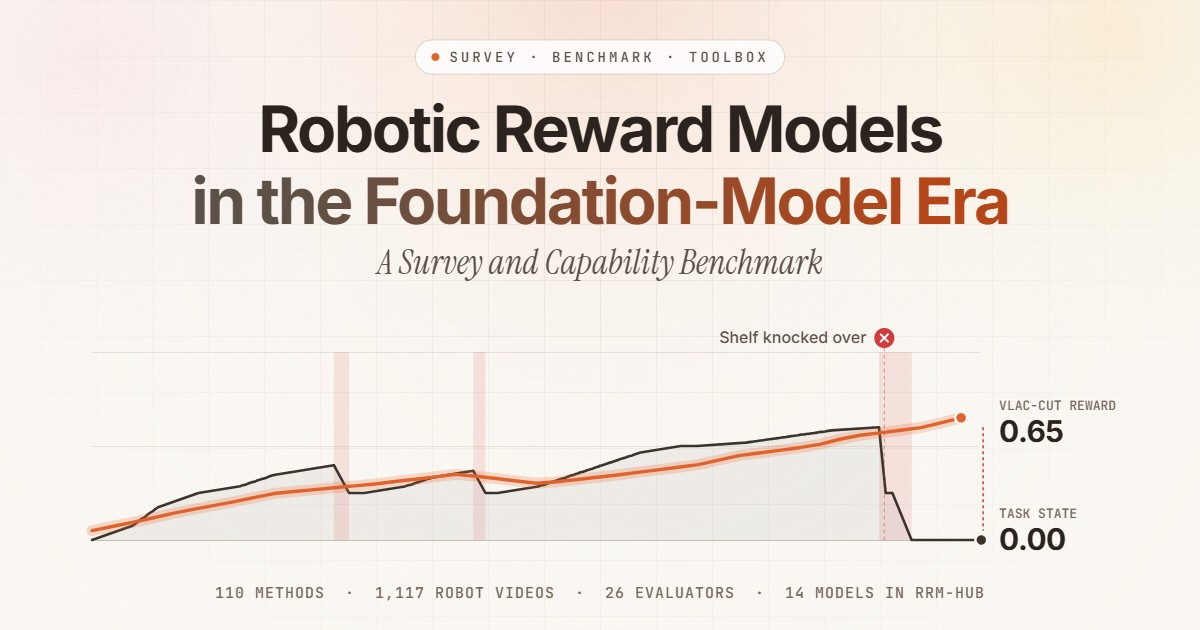
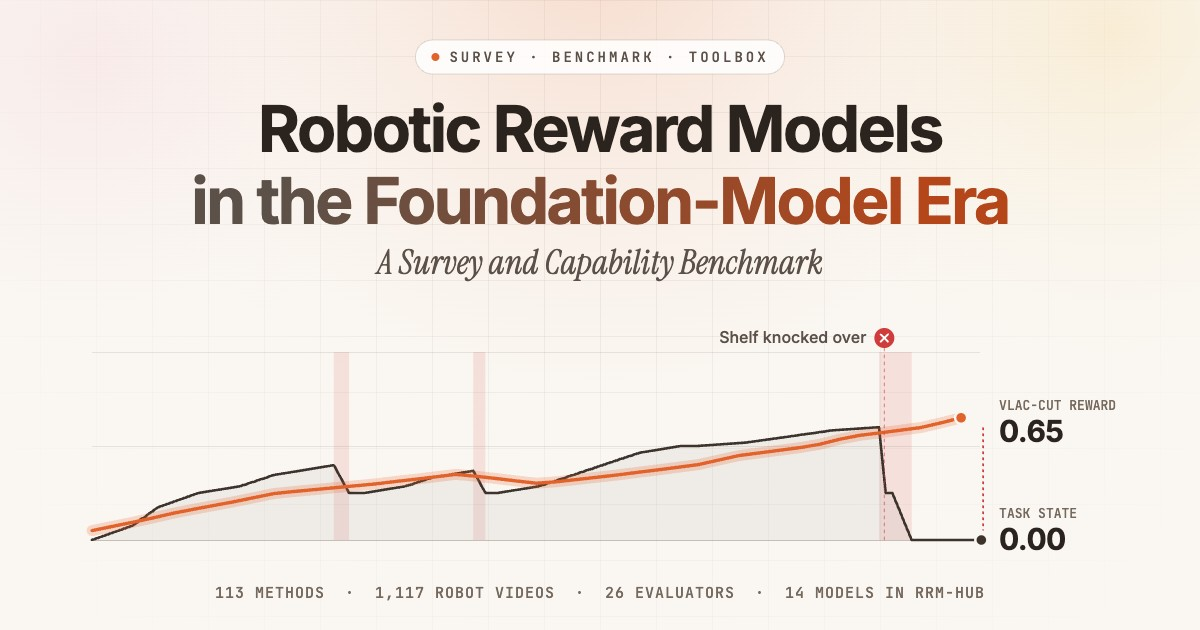
Follow the paper's corpus of 113 methods on the project page
The paper now lists Flora-Rewarder, Robo-ValueRL, and VLAC-Cut in its
method inventory (113 methods; Temporal Value 25, Hybrid 24).

- index.html: 110 to 113 in the description, counter, lead, and summary;
  the two family counts.
- assets/data/site.js: taxonomy regenerated from the paper; the leaderboard
  rows are unchanged.
- assets/img/og.jpg: social card redrawn with the new count.
- _tools/build_data.py: --site-only rebuilds site.js without a stage
  directory, and the leaderboard parser skips Table II's multiview rows.

diff --git a/project-page/assets/data/site.js b/project-page/assets/data/site.js
@@ -1,2 +1,2 @@
 /* generated by _tools/build_data.py; do not edit by hand */
-window.RRM_SITE = {"families":[{"name":"Outcome","count":12,"routes":[{"name":"Episode-level outcome and ordinal judgments","methods":["ZSRM","SuccessVQA","RoboCLIP","RoboFuME","I-FailSense","RoboReward","World-VLA-Loop*"]},{"name":"Predictive and policy-internal failure monitors","methods":["Sentinel‡","SAFE","VLAConf","OpenVLA warning probe","FAVOR"]}]},{"name":"Absolute Progress","count":29,"routes":[{"name":"Distances to goal or demonstration representations","methods":["VIP","LIV","VLM-RM","Adapt2Reward","ReWiND","SPARTA-L","Rewarding DINO","HiRE"]},{"name":"Temporal supervision and progress proxies","methods":["Video-Language Critic","GVL","PROGRESSOR","VITA","RARM","ReTVL","WVM","WARP-RM","DenseReward","AnyviewMeter"]},{"name":"Prompted, token-level, and reasoning-based progress","methods":["ProgressLM","TOPReward","R²VLM","SOLE-R1","ProcVLM","Feat2Go","LLM-as-a-Verifier‡","ARS‡"]},{"name":"Policy- and world-model-coupled progress","methods":["World-Env*","ProgressVLA","NavWAM"]}]},{"name":"Relative","count":23,"routes":[{"name":"Direct pairwise and transition comparators","methods":["DecisionNCE-T","TimeRewarder","Robo-Dopamine","Small Stuff","Dream2Reward"]},{"name":"Pointwise utilities learned from preferences","methods":["RL-VLM-F","Rank2Reward","VLP","VARP","MVR","GIFT","FPL","VLM-AR3L","Listwise VLM reward","RAPID"]},{"name":"Candidate-action comparators","methods":["RoboMonkey","RoVer","EVE‡","CoVer","TapSampling","PreferenceFlow","TeV","DiVeR"]}]},{"name":"Temporal Value","count":24,"routes":[{"name":"Stage-decomposed values","methods":["CLIP-Motion","VICtoR","REDS","TeViR","T2-VLM‡","SARM","PALM","MARVL","SARM2","STDR"]},{"name":"Temporal distance values","methods":["Self-Improving EFM","RynnValue"]},{"name":"Policy-indexed and value-in-the-loop models","methods":["V-PTR","Hume","RECAP","Cosmos Policy","RISE*","ViVa","Frozen-VLA value probes","MV-WAM","DGAC","WCM","SeeQ","eVTA"]}]},{"name":"Hybrid","count":22,"routes":[{"name":"Composite rewards and multi-interface models","methods":["GRAPE","VLAC","Robometer","Large Reward Models","VLLR","ARM","CoRe","ACE-Brain-0.5","TrustRoboReward","FIERCE"]},{"name":"Structured process critics and failure diagnosis","methods":["AHA","Guardian","PRIMO-R1"]},{"name":"Judges for generated robot behavior","methods":["ReWorld*","RoboAlign-R1*","Reward as an Agent*","RoboGaze*‡","EVO-WAM*‡","RoboJudge-9B*"]},{"name":"Protocol judges and runtime verification","methods":["PRM-as-a-Judge‡","Thea‡","VeriFine-Judge"]}]}],"board":[{"name":"ProcVLM-2B","interp":true,"kind":"Specialized","size":"2B–4B","mf1":0.441,"ff1":0.201,"frec":0.465,"fprec":0.128,"acc":0.533,"voc":0.382,"tau":0.175,"v":0.469,"px":0.407,"pair":null},{"name":"VLAC-2B","interp":true,"kind":"Specialized","size":"2B–4B","mf1":0.352,"ff1":0.171,"frec":0.312,"fprec":0.118,"acc":0.368,"voc":0.37,"tau":0.093,"v":0.357,"px":0.331,"pair":null},{"name":"Robo-Dopamine-GRM-3B","interp":false,"kind":"Specialized","size":"2B–4B","mf1":0.384,"ff1":0.202,"frec":0.401,"fprec":0.135,"acc":0.411,"voc":0.324,"tau":0.113,"v":0.399,"px":0.356,"pair":null},{"name":"Robo-Dopamine-GRM-2.0-4B-Preview","interp":false,"kind":"Specialized","size":"2B–4B","mf1":0.483,"ff1":0.242,"frec":0.518,"fprec":0.158,"acc":0.586,"voc":0.598,"tau":0.311,"v":0.514,"px":0.452,"pair":null},{"name":"Robometer-4B","interp":true,"kind":"Specialized","size":"2B–4B","mf1":0.554,"ff1":0.214,"frec":0.263,"fprec":0.181,"acc":0.812,"voc":0.832,"tau":0.473,"v":0.582,"px":0.527,"pair":null},{"name":"RoboReward-4B (Prefix)","interp":true,"kind":"Specialized","size":"2B–4B","mf1":0.241,"ff1":0.072,"frec":0.044,"fprec":0.209,"acc":0.241,"voc":0.807,"tau":0.314,"v":0.254,"px":0.189,"pair":null},{"name":"RynnValue-4B","interp":true,"kind":"Specialized","size":"2B–4B","mf1":0.509,"ff1":0.235,"frec":0.507,"fprec":0.153,"acc":0.66,"voc":0.459,"tau":0.419,"v":0.572,"px":0.45,"pair":null},{"name":"PRIMO-R1-7B (Prefix)","interp":true,"kind":"Specialized","size":"7B–8B","mf1":0.429,"ff1":0.154,"frec":0.181,"fprec":0.135,"acc":0.531,"voc":0.828,"tau":0.285,"v":0.431,"px":0.426,"pair":null},{"name":"LRM-8B (Progress)","interp":false,"kind":"Specialized","size":"7B–8B","mf1":0.201,"ff1":0.136,"frec":0.148,"fprec":0.127,"acc":0.154,"voc":0.198,"tau":0.157,"v":0.158,"px":0.215,"pair":null},{"name":"Robo-Dopamine-GRM-8B","interp":false,"kind":"Specialized","size":"7B–8B","mf1":0.411,"ff1":0.211,"frec":0.422,"fprec":0.141,"acc":0.453,"voc":0.389,"tau":0.263,"v":0.442,"px":0.388,"pair":null},{"name":"Robo-Dopamine-GRM-2.0-8B-Preview","interp":false,"kind":"Specialized","size":"7B–8B","mf1":0.476,"ff1":0.226,"frec":0.478,"fprec":0.148,"acc":0.582,"voc":0.605,"tau":0.28,"v":0.504,"px":0.447,"pair":null},{"name":"RynnValue-8B","interp":true,"kind":"Specialized","size":"7B–8B","mf1":0.511,"ff1":0.236,"frec":0.445,"fprec":0.16,"acc":0.661,"voc":0.522,"tau":0.39,"v":0.57,"px":0.441,"pair":null},{"name":"SOLE-R1-8B","interp":false,"kind":"Specialized","size":"7B–8B","mf1":0.506,"ff1":0.225,"frec":0.492,"fprec":0.146,"acc":0.666,"voc":0.683,"tau":0.196,"v":0.494,"px":0.498,"pair":null},{"name":"TOPReward (Qwen3-VL-8B)","interp":true,"kind":"Specialized","size":"7B–8B","mf1":0.437,"ff1":0.182,"frec":0.503,"fprec":0.111,"acc":0.552,"voc":0.379,"tau":0.081,"v":0.434,"px":0.427,"pair":null},{"name":"VLAC-8B","interp":true,"kind":"Specialized","size":"7B–8B","mf1":0.374,"ff1":0.169,"frec":0.285,"fprec":0.12,"acc":0.41,"voc":0.414,"tau":0.12,"v":0.366,"px":0.358,"pair":null},{"name":"Flora-Rewarder-27B (Prefix)","interp":false,"kind":"Specialized","size":"27B–30B","mf1":0.541,"ff1":0.252,"frec":0.472,"fprec":0.172,"acc":0.721,"voc":0.915,"tau":0.572,"v":0.551,"px":0.511,"pair":null},{"name":"VLAC-Cut-30B-A3B","interp":false,"kind":"Specialized","size":"27B–30B","mf1":0.596,"ff1":0.272,"frec":0.268,"fprec":0.276,"acc":0.853,"voc":0.695,"tau":0.261,"v":0.588,"px":0.561,"pair":null},{"name":"GVL (Gemini 3.8 Flash)","interp":false,"kind":"Specialized","size":"proprietary backbone","mf1":0.528,"ff1":0.24,"frec":0.422,"fprec":0.167,"acc":0.7,"voc":0.788,"tau":0.271,"v":0.553,"px":0.506,"pair":null},{"name":"GPT-6.1 Sol","interp":false,"kind":"General VLM","size":"","mf1":0.553,"ff1":0.366,"frec":0.244,"fprec":0.736,"acc":0.563,"voc":0.898,"tau":0.695,"v":0.559,"px":0.491,"pair":0.632},{"name":"GPT-6 Luna","interp":false,"kind":"General VLM","size":"","mf1":0.417,"ff1":0.252,"frec":0.176,"fprec":0.442,"acc":0.395,"voc":0.805,"tau":0.444,"v":0.466,"px":0.337,"pair":0.474},{"name":"GPT-5.6 Terra","interp":false,"kind":"General VLM","size":"","mf1":0.387,"ff1":0.217,"frec":0.129,"fprec":0.679,"acc":0.368,"voc":0.878,"tau":0.632,"v":0.389,"px":0.294,"pair":0.558},{"name":"Claude Opus 5.5","interp":false,"kind":"General VLM","size":"","mf1":0.624,"ff1":0.354,"frec":0.237,"fprec":0.697,"acc":0.789,"voc":0.929,"tau":0.646,"v":0.618,"px":0.557,"pair":0.603},{"name":"Claude Sonnet 5.5","interp":false,"kind":"General VLM","size":"","mf1":0.514,"ff1":0.184,"frec":0.112,"fprec":0.529,"acc":0.705,"voc":0.889,"tau":0.559,"v":0.493,"px":0.474,"pair":0.553},{"name":"Claude Haiku 5.5","interp":false,"kind":"General VLM","size":"","mf1":0.404,"ff1":0.122,"frec":0.075,"fprec":0.322,"acc":0.496,"voc":0.807,"tau":0.332,"v":0.393,"px":0.369,"pair":0.509},{"name":"Gemini 3.8 Flash","interp":false,"kind":"General VLM","size":"","mf1":0.564,"ff1":0.305,"frec":0.196,"fprec":0.688,"acc":0.669,"voc":0.891,"tau":0.601,"v":0.56,"px":0.531,"pair":0.621},{"name":"Jev 1.14","interp":false,"kind":"Decision","size":"","mf1":0.543,"ff1":0.256,"frec":0.427,"fprec":0.183,"acc":0.719,"voc":0.905,"tau":0.496,"v":0.534,"px":0.525,"pair":0.509}]};
+window.RRM_SITE = {"families":[{"name":"Outcome","count":12,"routes":[{"name":"Episode-level outcome and ordinal judgments","methods":["ZSRM","SuccessVQA","RoboCLIP","RoboFuME","I-FailSense","RoboReward","World-VLA-Loop*"]},{"name":"Predictive and policy-internal failure monitors","methods":["Sentinel‡","SAFE","VLAConf","OpenVLA warning probe","FAVOR"]}]},{"name":"Absolute Progress","count":29,"routes":[{"name":"Distances to goal or demonstration representations","methods":["VIP","LIV","VLM-RM","Adapt2Reward","ReWiND","SPARTA-L","Rewarding DINO","HiRE"]},{"name":"Temporal supervision and progress proxies","methods":["Video-Language Critic","GVL","PROGRESSOR","VITA","RARM","ReTVL","WVM","WARP-RM","DenseReward","AnyviewMeter"]},{"name":"Prompted, token-level, and reasoning-based progress","methods":["ProgressLM","TOPReward","R²VLM","SOLE-R1","ProcVLM","Feat2Go","LLM-as-a-Verifier‡","ARS‡"]},{"name":"Policy- and world-model-coupled progress","methods":["World-Env*","ProgressVLA","NavWAM"]}]},{"name":"Relative","count":23,"routes":[{"name":"Direct pairwise and transition comparators","methods":["DecisionNCE-T","TimeRewarder","Robo-Dopamine","Small Stuff","Dream2Reward"]},{"name":"Pointwise utilities learned from preferences","methods":["RL-VLM-F","Rank2Reward","VLP","VARP","MVR","GIFT","FPL","VLM-AR3L","Listwise VLM reward","RAPID"]},{"name":"Candidate-action comparators","methods":["RoboMonkey","RoVer","EVE‡","CoVer","TapSampling","PreferenceFlow","TeV","DiVeR"]}]},{"name":"Temporal Value","count":25,"routes":[{"name":"Stage-decomposed values","methods":["CLIP-Motion","VICtoR","REDS","TeViR","T2-VLM‡","SARM","PALM","MARVL","SARM2","STDR"]},{"name":"Temporal distance values","methods":["Self-Improving EFM","RynnValue"]},{"name":"Policy-indexed and value-in-the-loop models","methods":["V-PTR","Hume","RECAP","Cosmos Policy","RISE*","ViVa","Frozen-VLA value probes","MV-WAM","DGAC","Robo-ValueRL","WCM","SeeQ","eVTA"]}]},{"name":"Hybrid","count":24,"routes":[{"name":"Composite rewards and multi-interface models","methods":["GRAPE","VLAC","Robometer","Large Reward Models","VLLR","ARM","CoRe","ACE-Brain-0.5","TrustRoboReward","FIERCE","Flora-Rewarder"]},{"name":"Structured process critics and failure diagnosis","methods":["AHA","Guardian","PRIMO-R1","VLAC-Cut"]},{"name":"Judges for generated robot behavior","methods":["ReWorld*","RoboAlign-R1*","Reward as an Agent*","RoboGaze*‡","EVO-WAM*‡","RoboJudge-9B*"]},{"name":"Protocol judges and runtime verification","methods":["PRM-as-a-Judge‡","Thea‡","VeriFine-Judge"]}]}],"board":[{"name":"ProcVLM-2B","interp":true,"kind":"Specialized","size":"2B–4B","mf1":0.441,"ff1":0.201,"frec":0.465,"fprec":0.128,"acc":0.533,"voc":0.382,"tau":0.175,"v":0.469,"px":0.407,"pair":null},{"name":"VLAC-2B","interp":true,"kind":"Specialized","size":"2B–4B","mf1":0.352,"ff1":0.171,"frec":0.312,"fprec":0.118,"acc":0.368,"voc":0.37,"tau":0.093,"v":0.357,"px":0.331,"pair":null},{"name":"Robo-Dopamine-GRM-3B","interp":false,"kind":"Specialized","size":"2B–4B","mf1":0.384,"ff1":0.202,"frec":0.401,"fprec":0.135,"acc":0.411,"voc":0.324,"tau":0.113,"v":0.399,"px":0.356,"pair":null},{"name":"Robo-Dopamine-GRM-2.0-4B-Preview","interp":false,"kind":"Specialized","size":"2B–4B","mf1":0.483,"ff1":0.242,"frec":0.518,"fprec":0.158,"acc":0.586,"voc":0.598,"tau":0.311,"v":0.514,"px":0.452,"pair":null},{"name":"Robometer-4B","interp":true,"kind":"Specialized","size":"2B–4B","mf1":0.554,"ff1":0.214,"frec":0.263,"fprec":0.181,"acc":0.812,"voc":0.832,"tau":0.473,"v":0.582,"px":0.527,"pair":null},{"name":"RoboReward-4B (Prefix)","interp":true,"kind":"Specialized","size":"2B–4B","mf1":0.241,"ff1":0.072,"frec":0.044,"fprec":0.209,"acc":0.241,"voc":0.807,"tau":0.314,"v":0.254,"px":0.189,"pair":null},{"name":"RynnValue-4B","interp":true,"kind":"Specialized","size":"2B–4B","mf1":0.509,"ff1":0.235,"frec":0.507,"fprec":0.153,"acc":0.66,"voc":0.459,"tau":0.419,"v":0.572,"px":0.45,"pair":null},{"name":"PRIMO-R1-7B (Prefix)","interp":true,"kind":"Specialized","size":"7B–8B","mf1":0.429,"ff1":0.154,"frec":0.181,"fprec":0.135,"acc":0.531,"voc":0.828,"tau":0.285,"v":0.431,"px":0.426,"pair":null},{"name":"LRM-8B (Progress)","interp":false,"kind":"Specialized","size":"7B–8B","mf1":0.201,"ff1":0.136,"frec":0.148,"fprec":0.127,"acc":0.154,"voc":0.198,"tau":0.157,"v":0.158,"px":0.215,"pair":null},{"name":"Robo-Dopamine-GRM-8B","interp":false,"kind":"Specialized","size":"7B–8B","mf1":0.411,"ff1":0.211,"frec":0.422,"fprec":0.141,"acc":0.453,"voc":0.389,"tau":0.263,"v":0.442,"px":0.388,"pair":null},{"name":"Robo-Dopamine-GRM-2.0-8B-Preview","interp":false,"kind":"Specialized","size":"7B–8B","mf1":0.476,"ff1":0.226,"frec":0.478,"fprec":0.148,"acc":0.582,"voc":0.605,"tau":0.28,"v":0.504,"px":0.447,"pair":null},{"name":"RynnValue-8B","interp":true,"kind":"Specialized","size":"7B–8B","mf1":0.511,"ff1":0.236,"frec":0.445,"fprec":0.16,"acc":0.661,"voc":0.522,"tau":0.39,"v":0.57,"px":0.441,"pair":null},{"name":"SOLE-R1-8B","interp":false,"kind":"Specialized","size":"7B–8B","mf1":0.506,"ff1":0.225,"frec":0.492,"fprec":0.146,"acc":0.666,"voc":0.683,"tau":0.196,"v":0.494,"px":0.498,"pair":null},{"name":"TOPReward (Qwen3-VL-8B)","interp":true,"kind":"Specialized","size":"7B–8B","mf1":0.437,"ff1":0.182,"frec":0.503,"fprec":0.111,"acc":0.552,"voc":0.379,"tau":0.081,"v":0.434,"px":0.427,"pair":null},{"name":"VLAC-8B","interp":true,"kind":"Specialized","size":"7B–8B","mf1":0.374,"ff1":0.169,"frec":0.285,"fprec":0.12,"acc":0.41,"voc":0.414,"tau":0.12,"v":0.366,"px":0.358,"pair":null},{"name":"Flora-Rewarder-27B (Prefix)","interp":false,"kind":"Specialized","size":"27B–30B","mf1":0.541,"ff1":0.252,"frec":0.472,"fprec":0.172,"acc":0.721,"voc":0.915,"tau":0.572,"v":0.551,"px":0.511,"pair":null},{"name":"VLAC-Cut-30B-A3B","interp":false,"kind":"Specialized","size":"27B–30B","mf1":0.596,"ff1":0.272,"frec":0.268,"fprec":0.276,"acc":0.853,"voc":0.695,"tau":0.261,"v":0.588,"px":0.561,"pair":null},{"name":"GVL (Gemini 3.8 Flash)","interp":false,"kind":"Specialized","size":"proprietary backbone","mf1":0.528,"ff1":0.24,"frec":0.422,"fprec":0.167,"acc":0.7,"voc":0.788,"tau":0.271,"v":0.553,"px":0.506,"pair":null},{"name":"GPT-6.1 Sol","interp":false,"kind":"General VLM","size":"","mf1":0.553,"ff1":0.366,"frec":0.244,"fprec":0.736,"acc":0.563,"voc":0.898,"tau":0.695,"v":0.559,"px":0.491,"pair":0.632},{"name":"GPT-6 Luna","interp":false,"kind":"General VLM","size":"","mf1":0.417,"ff1":0.252,"frec":0.176,"fprec":0.442,"acc":0.395,"voc":0.805,"tau":0.444,"v":0.466,"px":0.337,"pair":0.474},{"name":"GPT-5.6 Terra","interp":false,"kind":"General VLM","size":"","mf1":0.387,"ff1":0.217,"frec":0.129,"fprec":0.679,"acc":0.368,"voc":0.878,"tau":0.632,"v":0.389,"px":0.294,"pair":0.558},{"name":"Claude Opus 5.5","interp":false,"kind":"General VLM","size":"","mf1":0.624,"ff1":0.354,"frec":0.237,"fprec":0.697,"acc":0.789,"voc":0.929,"tau":0.646,"v":0.618,"px":0.557,"pair":0.603},{"name":"Claude Sonnet 5.5","interp":false,"kind":"General VLM","size":"","mf1":0.514,"ff1":0.184,"frec":0.112,"fprec":0.529,"acc":0.705,"voc":0.889,"tau":0.559,"v":0.493,"px":0.474,"pair":0.553},{"name":"Claude Haiku 5.5","interp":false,"kind":"General VLM","size":"","mf1":0.404,"ff1":0.122,"frec":0.075,"fprec":0.322,"acc":0.496,"voc":0.807,"tau":0.332,"v":0.393,"px":0.369,"pair":0.509},{"name":"Gemini 3.8 Flash","interp":false,"kind":"General VLM","size":"","mf1":0.564,"ff1":0.305,"frec":0.196,"fprec":0.688,"acc":0.669,"voc":0.891,"tau":0.601,"v":0.56,"px":0.531,"pair":0.621},{"name":"Jev 1.14","interp":false,"kind":"Decision","size":"","mf1":0.543,"ff1":0.256,"frec":0.427,"fprec":0.183,"acc":0.719,"voc":0.905,"tau":0.496,"v":0.534,"px":0.525,"pair":0.509}]};

diff --git a/project-page/index.html b/project-page/index.html
@@ -4,7 +4,7 @@
 <meta charset="utf-8">
 <meta name="viewport" content="width=device-width, initial-scale=1, viewport-fit=cover">
 <title>Robotic Reward Models in the Foundation-Model Era</title>
-<meta name="description" content="A survey of 110 robotic reward models in five semantic families, RRM-Bench-1K (1,117 real-robot videos with task-state labels), and the RRM-Hub toolbox.">
+<meta name="description" content="A survey of 113 robotic reward models in five semantic families, RRM-Bench-1K (1,117 real-robot videos with task-state labels), and the RRM-Hub toolbox.">
 <meta name="theme-color" content="#faf7f2">
 <meta property="og:type" content="website">
 <meta property="og:title" content="Robotic Reward Models in the Foundation-Model Era">
@@ -92,7 +92,7 @@
   <div class="wrap tldr-grid">
     <a class="tile reveal" href="#taxonomy">
       <span class="tile-k">Survey</span>
-      <b class="count" data-to="110">110</b>
+      <b class="count" data-to="113">113</b>
       <span class="tile-t">methods in five semantic families, sorted by the question their native output answers</span>
     </a>
     <a class="tile reveal" href="#bench">
@@ -114,7 +114,7 @@
     <header class="sec-head reveal">
       <span class="idx">01 / Survey</span>
       <h2>One word. <em>Five questions.</em></h2>
-      <p class="lead">Success probabilities, completion percentages, preferences, expected returns and diagnoses all go by <i>reward</i>. We group 110 methods by the question their native output answers.</p>
+      <p class="lead">Success probabilities, completion percentages, preferences, expected returns and diagnoses all go by <i>reward</i>. We group 113 methods by the question their native output answers.</p>
     </header>
 
     <div class="families" id="families">
@@ -174,7 +174,7 @@
           <text class="lbl" x="6" y="52">stage 3/4</text>
           <text class="lbl eta" x="126" y="52" text-anchor="end">4 s to go</text>
         </svg>
-        <h3>Temporal Value <span class="n">24</span></h3>
+        <h3>Temporal Value <span class="n">25</span></h3>
         <p class="q">Which stage, and how well is it going?</p>
         <div class="dots" role="group" aria-label="Temporal Value methods"></div>
         <p class="out">stage · time to go · V<sup>π</sup>, Q<sup>π</sup></p>
@@ -191,7 +191,7 @@
           <rect class="bar b2" x="40" y="29" width="86" height="6" rx="3"/>
           <text class="why" x="40" y="56">“gripper slipped”</text>
         </svg>
-        <h3>Hybrid <span class="n">22</span></h3>
+        <h3>Hybrid <span class="n">24</span></h3>
         <p class="q">What happened, and on what evidence?</p>
         <div class="dots" role="group" aria-label="Hybrid methods"></div>
         <p class="out">several judgments from one evaluator</p>
@@ -201,7 +201,7 @@
     <p class="fam-key reveal"><span><i></i>one method; hover or tap for its name</span><span><i class="gen"></i>* evaluates generated behavior</span><span><i class="proto"></i>‡ a protocol or harness</span></p>
 
     <details class="all-methods reveal">
-      <summary>All 110 methods by family and design route</summary>
+      <summary>All 113 methods by family and design route</summary>
       <div id="method-list" class="method-list"></div>
       <p class="fine">* evaluates generated behavior&ensp;·&ensp;‡ a protocol or harness</p>
     </details>

diff --git a/project-page/_tools/og_card.html b/project-page/_tools/og_card.html
@@ -93,7 +93,7 @@
 
   // footer facts
   x.textAlign = 'center'; x.font = '500 15px "JetBrains Mono"'; x.fillStyle = ink3; x.letterSpacing = '1px';
-  x.fillText('110 METHODS  ·  1,117 ROBOT VIDEOS  ·  26 EVALUATORS  ·  14 MODELS IN RRM-HUB', W / 2, 598);
+  x.fillText('113 METHODS  ·  1,117 ROBOT VIDEOS  ·  26 EVALUATORS  ·  14 MODELS IN RRM-HUB', W / 2, 598);
 
   cv.toBlob(async (b) => {
     const r = await fetch('/_tools/save-og', { method: 'POST', body: b });

diff --git a/project-page/_tools/build_data.py b/project-page/_tools/build_data.py
@@ -2,6 +2,7 @@
 benchmark outputs.
 
     python _tools/build_data.py --stage <stage_dir> --paper <repo_root>
+    python _tools/build_data.py --site-only --paper <repo_root>   # taxonomy and leaderboard only
 
 <stage_dir> is what _tools/stage_from_server.sh copies from the server:
   kits/<spec>/data/*.csv     reward-profile kits (paper_figures_20261101)
@@ -213,7 +214,7 @@ def parse_taxonomy(path):
             route["methods"] = [n for n in names if n]
     for f in fams:
         assert sum(len(r["methods"]) for r in f["routes"]) == f["count"], f["name"]
-    assert sum(f["count"] for f in fams) == 110
+    assert sum(f["count"] for f in fams) == 113
     return fams
 
 
@@ -238,7 +239,9 @@ def parse_results(path):
     t2 = t2[:t2.index("\\end{tabularx}")]
     t3 = tex[tex.index("\\label{tab:bench-evidence-results}"):]
     t3 = t3[:t3.index("\\end{tabularx}")]
-    r2 = parse_rows(t2, 9)
+    # Table II also lists multiview rows (double dagger) since 9 November 2026;
+    # the leaderboard is the single-view roster of Table III.
+    r2 = [r for r in parse_rows(t2, 9) if "\\ddagger" not in r["raw"]]
     r3 = parse_rows(t3, 6)
     assert len(r2) == 35 and len(r3) == 26, (len(r2), len(r3))
 
@@ -297,10 +300,21 @@ def write_js(path, var, obj):
 
 def main():
     ap = argparse.ArgumentParser()
-    ap.add_argument("--stage", required=True)
+    ap.add_argument("--stage")
     ap.add_argument("--paper", required=True)
     ap.add_argument("--no-media", action="store_true")
+    ap.add_argument("--site-only", action="store_true",
+                    help="rewrite only site.js from the paper sources; needs no stage directory")
     a = ap.parse_args()
+    if a.site_only:
+        fams = parse_taxonomy(os.path.join(a.paper, "fig", "taxonomy_tree.tex"))
+        board = parse_results(os.path.join(a.paper, "sections", "06_evaluation.tex"))
+        write_js(os.path.join(PAGE, "assets", "data", "site.js"), "RRM_SITE",
+                 {"families": fams, "board": board})
+        print(f"site.js only · families {len(fams)} · leaderboard rows {len(board)}")
+        return
+    if not a.stage:
+        ap.error("--stage is required unless --site-only is given")
 
     cases = build_cases(a.stage)
     check_luna_books(cases, a.stage)

diff --git a/project-page/README.md b/project-page/README.md
@@ -11,7 +11,7 @@ assets/fonts/           Inter, Instrument Serif, JetBrains Mono (SIL OFL 1.1, se
 assets/js/main.js       hero trace, taxonomy, findings charts, leaderboard, hub, citation
 assets/js/lab.js        Reward Lab: a clip played against the task-state label and nine evaluators
 assets/data/cases.js    10 benchmark clips: labels, events, evaluator outputs (window.RRM_CASES)
-assets/data/site.js     110 surveyed methods by family, 26-evaluator leaderboard (window.RRM_SITE)
+assets/data/site.js     113 surveyed methods by family, 26-evaluator leaderboard (window.RRM_SITE)
 assets/video/           web encodes of the clips and the 24-clip wall (about 11 MB)
 assets/img/             posters, favicon, og.jpg (social card)
 _tools/                 preview server, data rebuild, social card; not deployed
